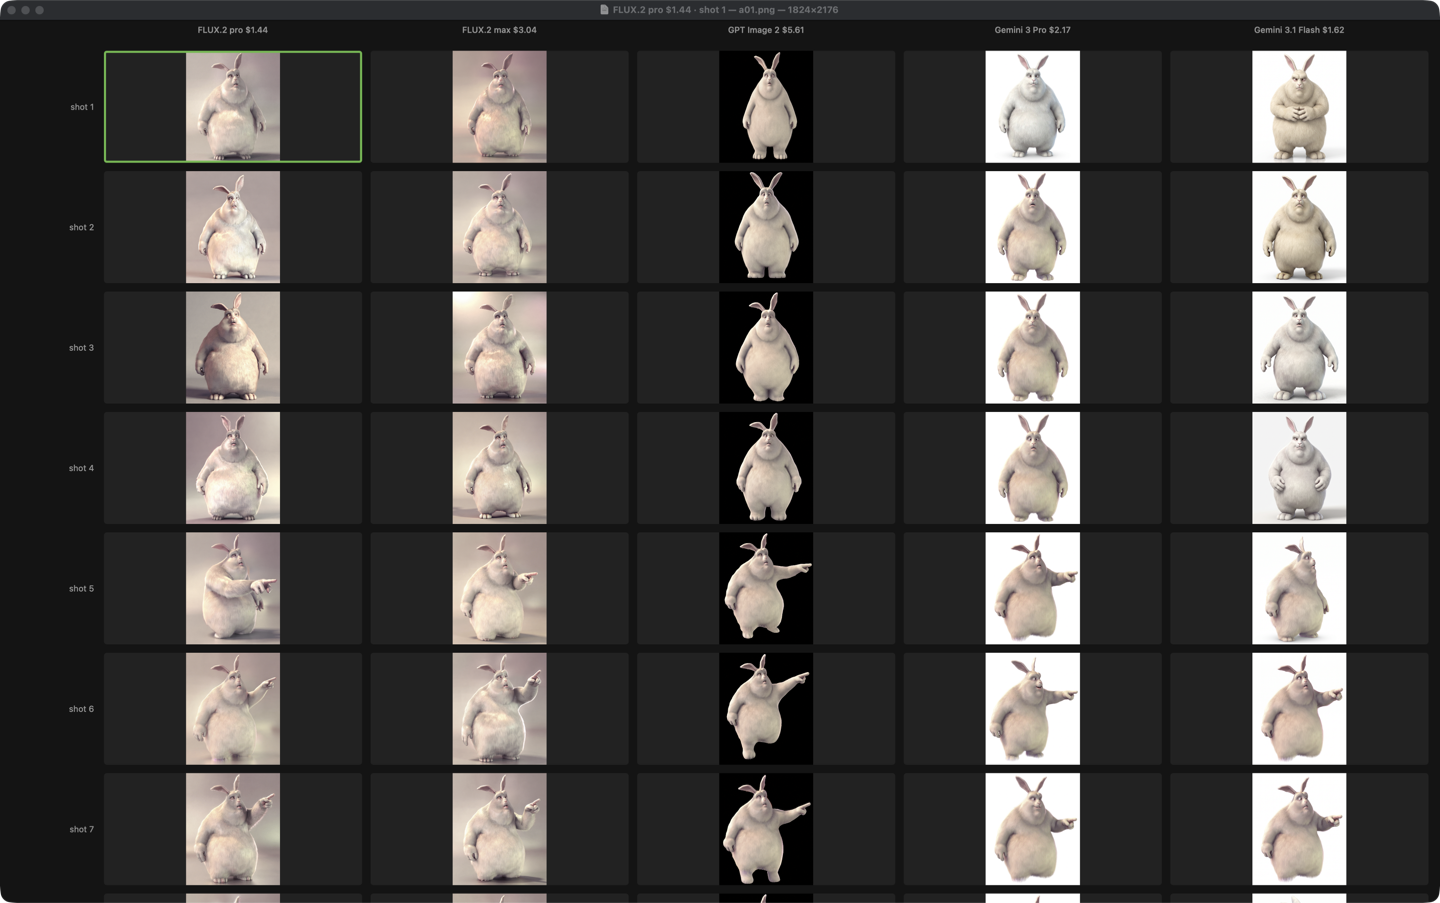
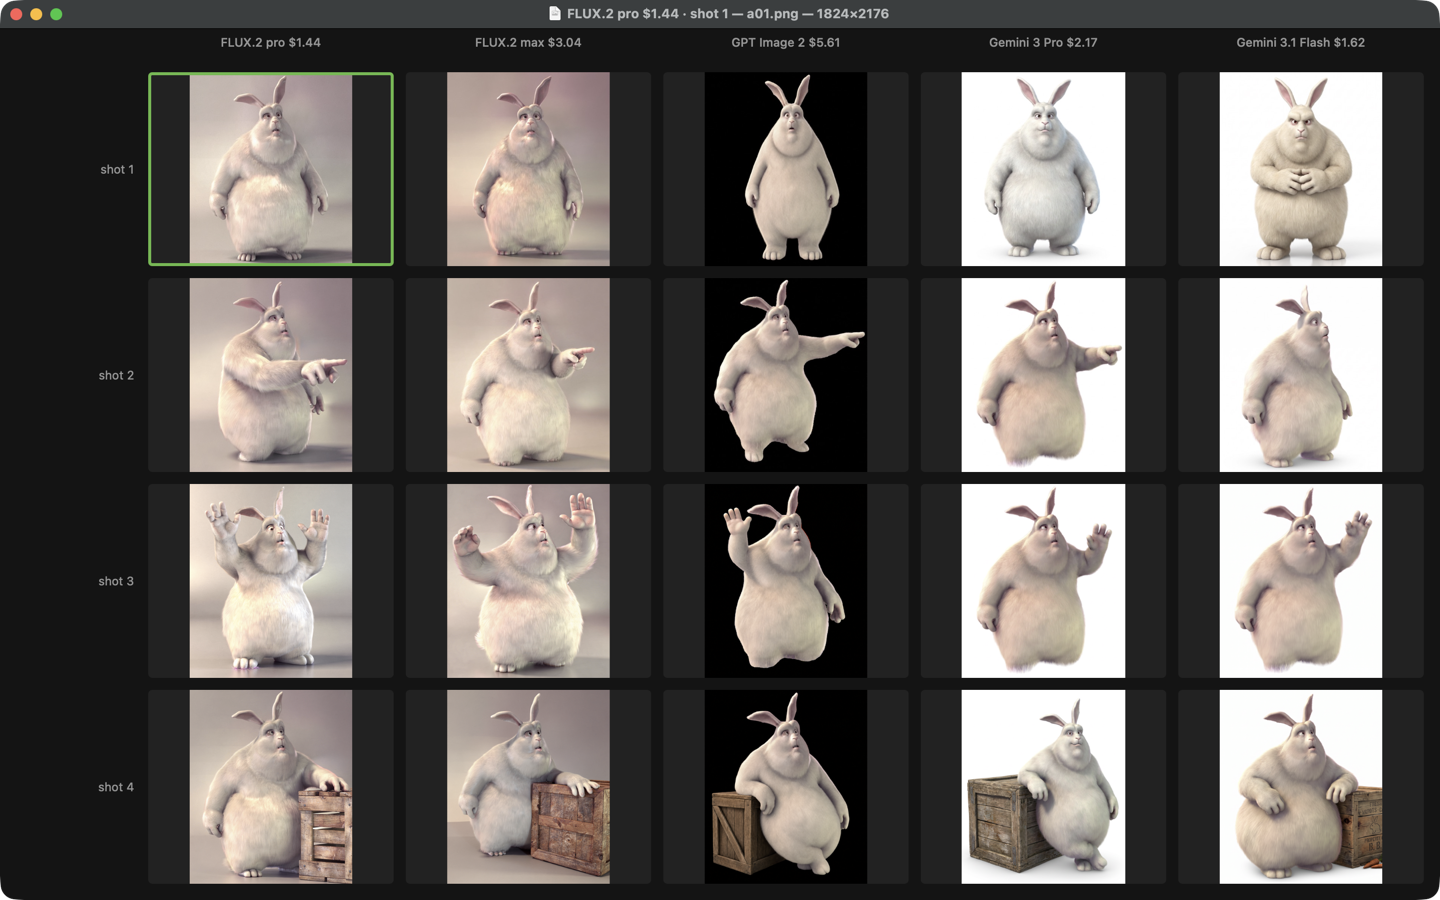
README: recapture the comparison screenshot as a promo frame
The first capture was the bakeoff window as it happened to be: full
screen at 16 rows, unfocused (grey traffic lights), rows cut off at the
bottom, and the renders too small to compare. The recapture matches the
viewer and grid shots: a focused 1440x900 window, and one render per
pose (standing, pointing, waving, leaning on a crate) so the whole 5x4
grid fits with nothing cut off.

diff --git a/README.md b/README.md
@@ -20,7 +20,7 @@ glance is free and open source.
 
 ![glance's thumbnail grid, with the hovered Hourglass Nebula enlarged](docs/screenshots/grid.png)
 
-![glance comparing five image models' renders of Big Buck Bunny, one model per column, one shot per row](docs/screenshots/comparison.png)
+![glance comparing five image models' renders of Big Buck Bunny, one model per column, one pose per row](docs/screenshots/comparison.png)
 
 <sub>Big Buck Bunny © Blender Foundation, [CC BY 3.0](https://creativecommons.org/licenses/by/3.0/).</sub>
 
